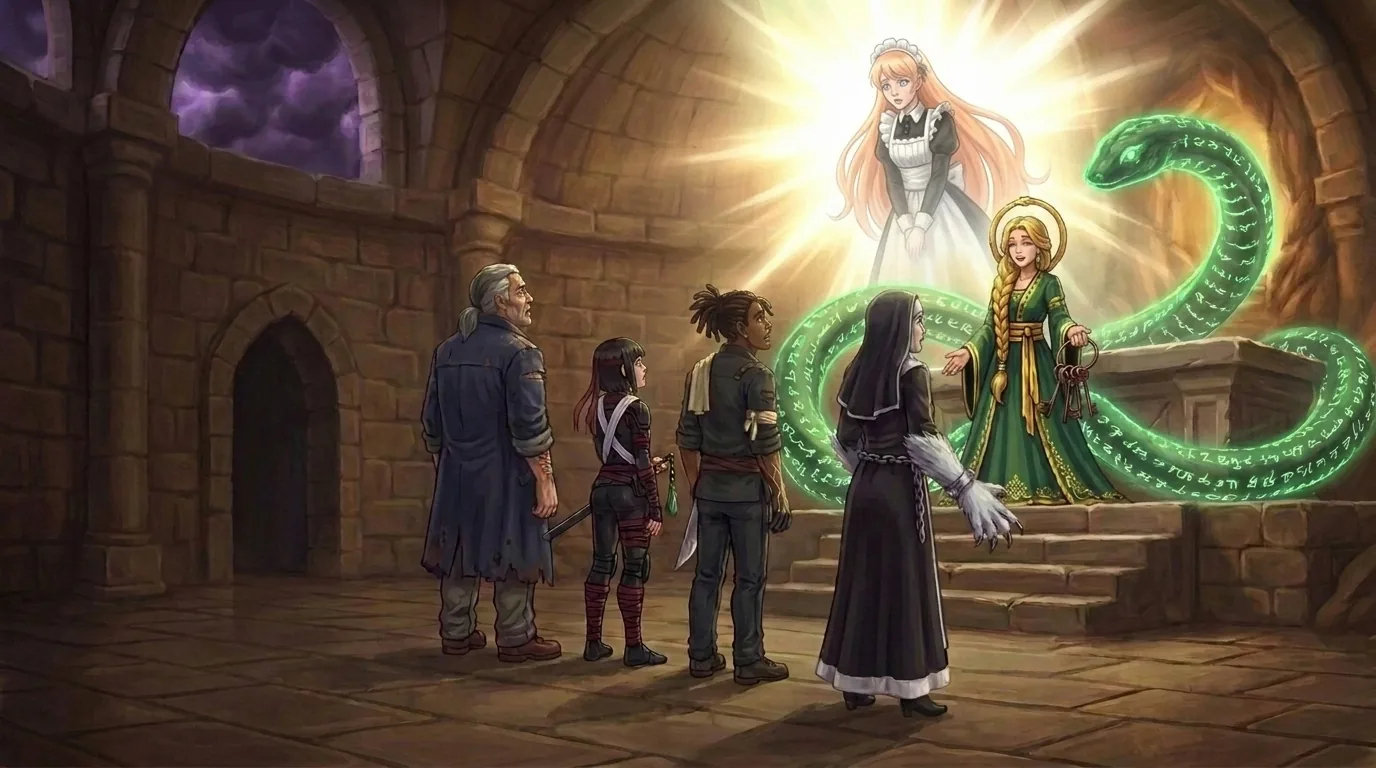
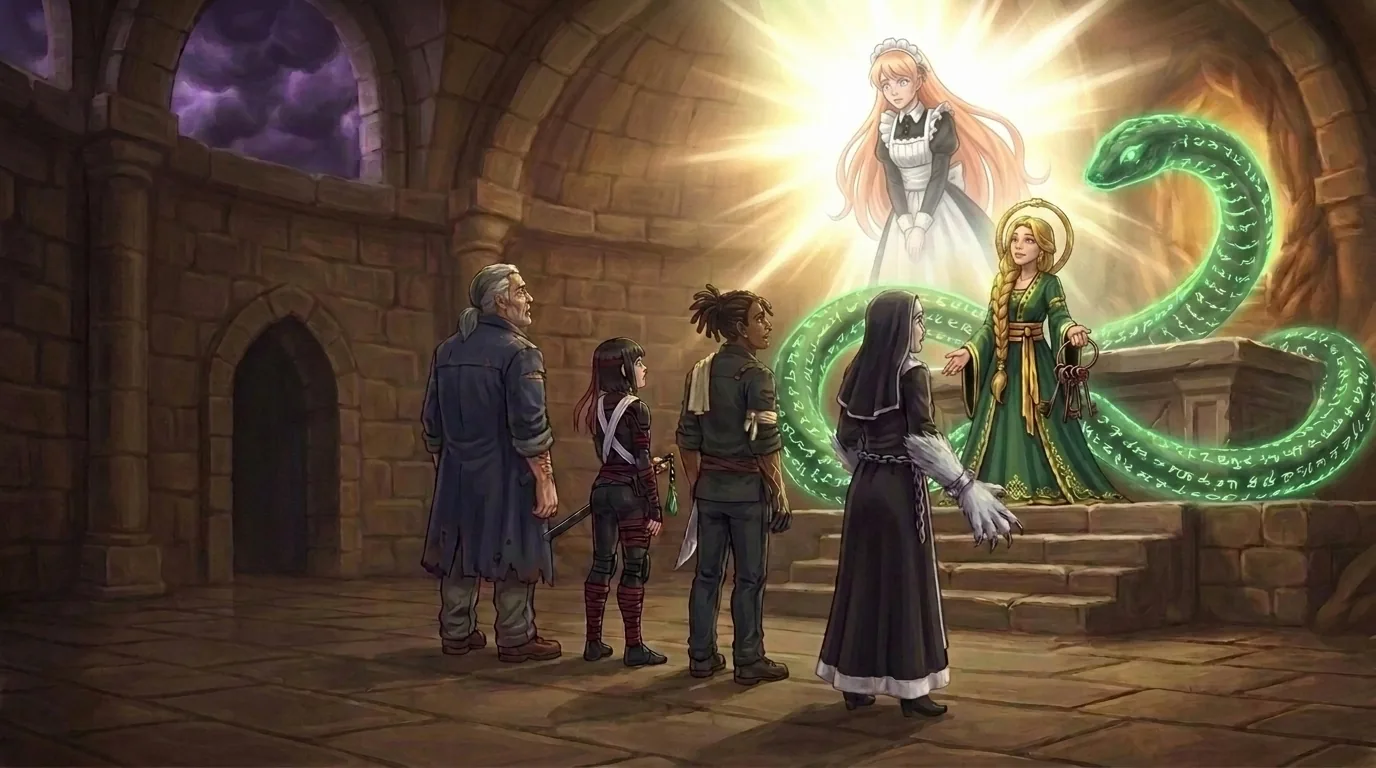
Chapter 1 reveal: Freya looks up at Uptima; the promoter flashes twice
While Uptima speaks, Freya now looks up at her with her mouth closed
(reveal-5). When Freya silences her, the promoter face flashes through twice
instead of once, and vn.js loads a flick's stills before it starts so a short
cut never shows an empty frame.

Claude-Session: https://claude.ai/code/session_013MZZKN1euAXp7bT7v22n7j

Changed region(s): [[0.7188, 0.25, 0.7812, 0.5]]

diff --git a/game/js/cut-reveal.js b/game/js/cut-reveal.js
@@ -9,7 +9,7 @@
   const IMG = 'assets/img/cut/';
   const still = (id, label) => ['cut-' + id, { src: IMG + id + '.webp', label: id.replace(/-/g, ' ') + (label ? ': ' + label : '') }];
   // The locked pose: A, C and E are the pixel twins of B, D and F (the same frame, converted), so they line up.
-  // G to I are the virus after she settles; G2 is G with a closed-mouth grimace; H2 is the promoter in H's pose, for one frame.
+  // G to I are the virus after she settles; G2 is G with a closed-mouth grimace; H2 is the promoter in H's pose, flashed twice.
   const PAINTED = { B: 'promoter', D: 'goddess', F: 'virus', G: 'hands folded', G2: 'hands folded, a closed-mouth grimace', H: 'one finger raised', H2: 'promoter, finger raised', I: 'the basket' };
   SD.vn.addScenes(Object.fromEntries([
     ...[1, 2, 3, 4, 5].map(n => still('reveal-' + n)),
@@ -78,8 +78,9 @@
         // "I never said I'd leave them there": the smile gone, a closed-mouth grimace (Ladi, Oct 22).
         ['cg', G2, 'still'], say(w[1]),
         ['cg', 'cut-reveal-5', 'slow'], say(w[2]), say(w[3]),
-        // One finger, and Uptima turns to static; for one frame, the friendly camp face.
-        ['cg', H, 'still'], ['sfx', 'static'], ['flick', [[H2, 70], [H, 0]]], say(w[4]),
+        // One finger, and Uptima turns to static; the friendly camp face flashes through twice (Ladi, Oct 22: once was
+        // too quick to catch).
+        ['cg', H, 'still'], ['sfx', 'static'], ['flick', [[H2, 100], [H, 160], [H2, 100], [H, 0]]], say(w[4]),
         ['cg', I, 'in'], say(w[5]), say(w[6])
       ]).finally(() => SD.audio.hush(false));
     }

diff --git a/game/js/vn.js b/game/js/vn.js
@@ -462,6 +462,13 @@
       for (const id of slow || [frames[frames.length - 1][0]]) { setLayer('.vn-cg', id, 'still'); await sleep(skipping ? 0 : 1200); }
       return;
     }
+    // Load every still first, so a short cut never shows an empty frame.
+    await Promise.all([...new Set(frames.map(f => f[0]))].map(id => {
+      const src = (V.art.scenes[id] || {}).src || (V.art.scenes[id] || {}).sheet;
+      if (!src) return null;
+      const im = new Image(); im.src = src;
+      return im.decode().catch(() => {});
+    }));
     if (sound) sfx(sound);
     for (const [id, ms] of frames) { setLayer('.vn-cg', id, 'still', true); if (ms) { sfx('tick'); await sleep(ms); } }
   }

diff --git a/game/CREDITS.md b/game/CREDITS.md
@@ -13,7 +13,7 @@ Everything here was first made for or gathered by the first game, [Isekai'd Into
 | Chapter 1's painted prologue art: Mira's tower-stair background and the still of her holding Bram (`assets/img/vn/m1.webp`, `m2.webp`), and the sprites of Mira grieving and Freya smiling (`mira-grief.webp`, `freya-smile.webp`) | Generated for this game with Google's Gemini 3 Pro Image through the Gemini API on Ladi's account on 2026-10-20, painted from Ladi's concept-art picks, then resized (sprites cut out from a flat backdrop) | Used under the [Gemini API Additional Terms of Service](https://ai.google.dev/gemini-api/terms) | The visual-novel prologues (`js/vn.js`) |
 | The rest of the four backstories' stills, one per shot of the backstory storyboard (`assets/img/vn/m2b` to `m3c`, `k1` to `k3c`, `s0a` to `s7c`, `d1` to `d1c`) | Generated for this game with Google's Gemini image model (gemini-nano-banana-2.1) through the Gemini API on Ladi's account on 2026-10-21, from the agreed character designs, the two Mira stills above and Ladi's chosen Freya reference sheet; each Freya shot is an edit of the shot before it, then resized | Used under the [Gemini API Additional Terms of Service](https://ai.google.dev/gemini-api/terms) | The visual-novel prologues (`js/ch1-story.js`) |
 | The opening scene's painted stills: the lightning shots, the pavilion's two angles with Freya's eight faces, the close-ups and inserts, and the closing shot of Freya alone (`assets/img/opening/*.webp`) | Generated for this game with Google's Gemini image model (gemini-nano-banana-2.1) through the Gemini API on Ladi's account on 2026-10-21, from Ladi's chosen Freya reference sheet and the storyboard; faces swapped in with a masked edit, then resized; the ID photos on the files repainted as the four leads (Mira, Kai, Seo-yeon, Dutch, from their PixelLab portraits) the same way, with the hand-on-the-file shot in one version per lead (`s12-<lead>.webp`) | Used under the [Gemini API Additional Terms of Service](https://ai.google.dev/gemini-api/terms) | The opening, "the files" (`js/vec-open.js`) |
-| Chapter 1's reveal stills (`assets/img/cut/reveal-*.webp`): the vault, the party and Freya's walk past each lead, the keys, Freya's faces in the locked pose and the virus after it | Generated for this game with Google's Gemini image model (gemini-3-pro-image-preview) through the Gemini API on Ladi's account on 2026-10-21 and 2026-10-22, from the storyboard (`storyboard/ch1/12-the-reveal.md`), the leads' and Freya's sprites and portraits as references: one wide painting of the vault, widened from the goddess still, and every other shot an edit or a crop of it. The shots were re-staged on 2026-10-22 from a new wide picture: the leads turning to Freya, their shocked close-ups, Uptima faint in the alcove light, the basket with the four presents, and Freya's closed-mouth grimace (`reveal-G2.webp`). The three pixel glitch frames (`reveal-glitch.webp`: promoter, goddess, virus) are those paintings converted with [PixelLab](https://pixellab.ai)'s image-to-pixel-art on Ladi's subscription | Used under the [Gemini API Additional Terms of Service](https://ai.google.dev/gemini-api/terms) and PixelLab's [Terms of Service](https://pixellab.ai/termsofservice) | Chapter 1's ending (`js/cut-reveal.js`) |
+| Chapter 1's reveal stills (`assets/img/cut/reveal-*.webp`): the vault, the party and Freya's walk past each lead, the keys, Freya's faces in the locked pose and the virus after it | Generated for this game with Google's Gemini image model (gemini-3-pro-image-preview) through the Gemini API on Ladi's account on 2026-10-21 and 2026-10-22, from the storyboard (`storyboard/ch1/12-the-reveal.md`), the leads' and Freya's sprites and portraits as references: one wide painting of the vault, widened from the goddess still, and every other shot an edit or a crop of it. The shots were re-staged on 2026-10-22 from a new wide picture: the leads turning to Freya, their shocked close-ups, Uptima faint in the alcove light, the basket with the four presents, and Freya's closed-mouth grimace (`reveal-G2.webp`). `reveal-5.webp` was edited the same day so Freya looks up at Uptima, mouth closed, while Uptima speaks. The three pixel glitch frames (`reveal-glitch.webp`: promoter, goddess, virus) are those paintings converted with [PixelLab](https://pixellab.ai)'s image-to-pixel-art on Ladi's subscription | Used under the [Gemini API Additional Terms of Service](https://ai.google.dev/gemini-api/terms) and PixelLab's [Terms of Service](https://pixellab.ai/termsofservice) | Chapter 1's ending (`js/cut-reveal.js`) |
 | Chapters 3 to 5's cutscene stills (`assets/img/cut/<cutscene>.webp`, one sheet per cutscene from `ask` to `the-badge-on-the-nail`, plus Chapter 3's earlier cutscenes from `tax-season` to `tell-her-yourself`), one pixel-art still per storyboard shot | Generated for this game with [PixelLab](https://pixellab.ai) on Ladi's subscription on 2026-10-22, from the storyboards (`storyboard/ch3`, `ch4`, `ch5`) with the cast's sprites and each cutscene's wide shot as references. A few were mirrored, and some had one small part repainted (a sheathed knife, a sash, hair colour, windows, the writing in a letter, Kai's gold hand) by Google's Gemini image model (gemini-3-pro-image-preview) through the Gemini API on Ladi's account, snapped back to the still's own pixels and colours | Used under PixelLab's [Terms of Service](https://pixellab.ai/termsofservice); the repaints under the [Gemini API Additional Terms of Service](https://ai.google.dev/gemini-api/terms) | Chapters 3 to 5's cutscenes, in place of the vector stills (`js/cut-ch3.js`, `cut-ch4.js`, `cut-ch4b.js`, `cut-ch5.js`) |
 | The opening's and the backstory cutscenes' voice lines (`assets/audio/vo/*.mp3`) | Generated for this game with Google's Gemini text-to-speech through the Gemini API on Ladi's account on 2026-10-21: Freya and Kagemaru on gemini-3.8-flash-tts (Freya: Despina, Kagemaru: Algenib; `freya-*` and `man-op-*`), Mira and Seo-yeon on gemini-3.8-flash-lite-tts (Mira: Gacrux, Seo-yeon: Kore), Dutch and Kai on gemini-2.5-pro-preview-tts (Dutch: Charon, Kai: Alnilam), and the people they lost on gemini-2.5-pro-preview-tts (Bram: Sadachbia, Hana: Leda, Jin: Fenrir, Old Gu: Enceladus, the Alliance Leader: Iapetus, Lina: Zephyr), trimmed | Used under the [Gemini API Additional Terms of Service](https://ai.google.dev/gemini-api/terms) | The spoken lines in the visual-novel scenes (`js/vo.js`) |
 | Chapter 2's voice lines (`assets/audio/vo/*-c2-*.mp3`) | Generated for this game with Google's Gemini text-to-speech through the Gemini API on Ladi's account on 2026-10-21 and 2026-10-22, trimmed: Mira (Gacrux) and Seo-yeon (Kore) on gemini-3.8-flash-lite-tts; Kai (Alnilam) and Dutch (Charon) on gemini-2.5-pro-preview-tts; Seymour (Orus) and Elder Wren, faithful (Sadaltager) on gemini-2.5-flash-preview-tts; Coo (Puck) on gemini-3.1-flash-tts-preview; Freya (Despina) on gemini-3.8-flash-tts | Used under the [Gemini API Additional Terms of Service](https://ai.google.dev/gemini-api/terms) | Chapter 2 act 1's spoken lines (`js/vo-c2.js`) |
